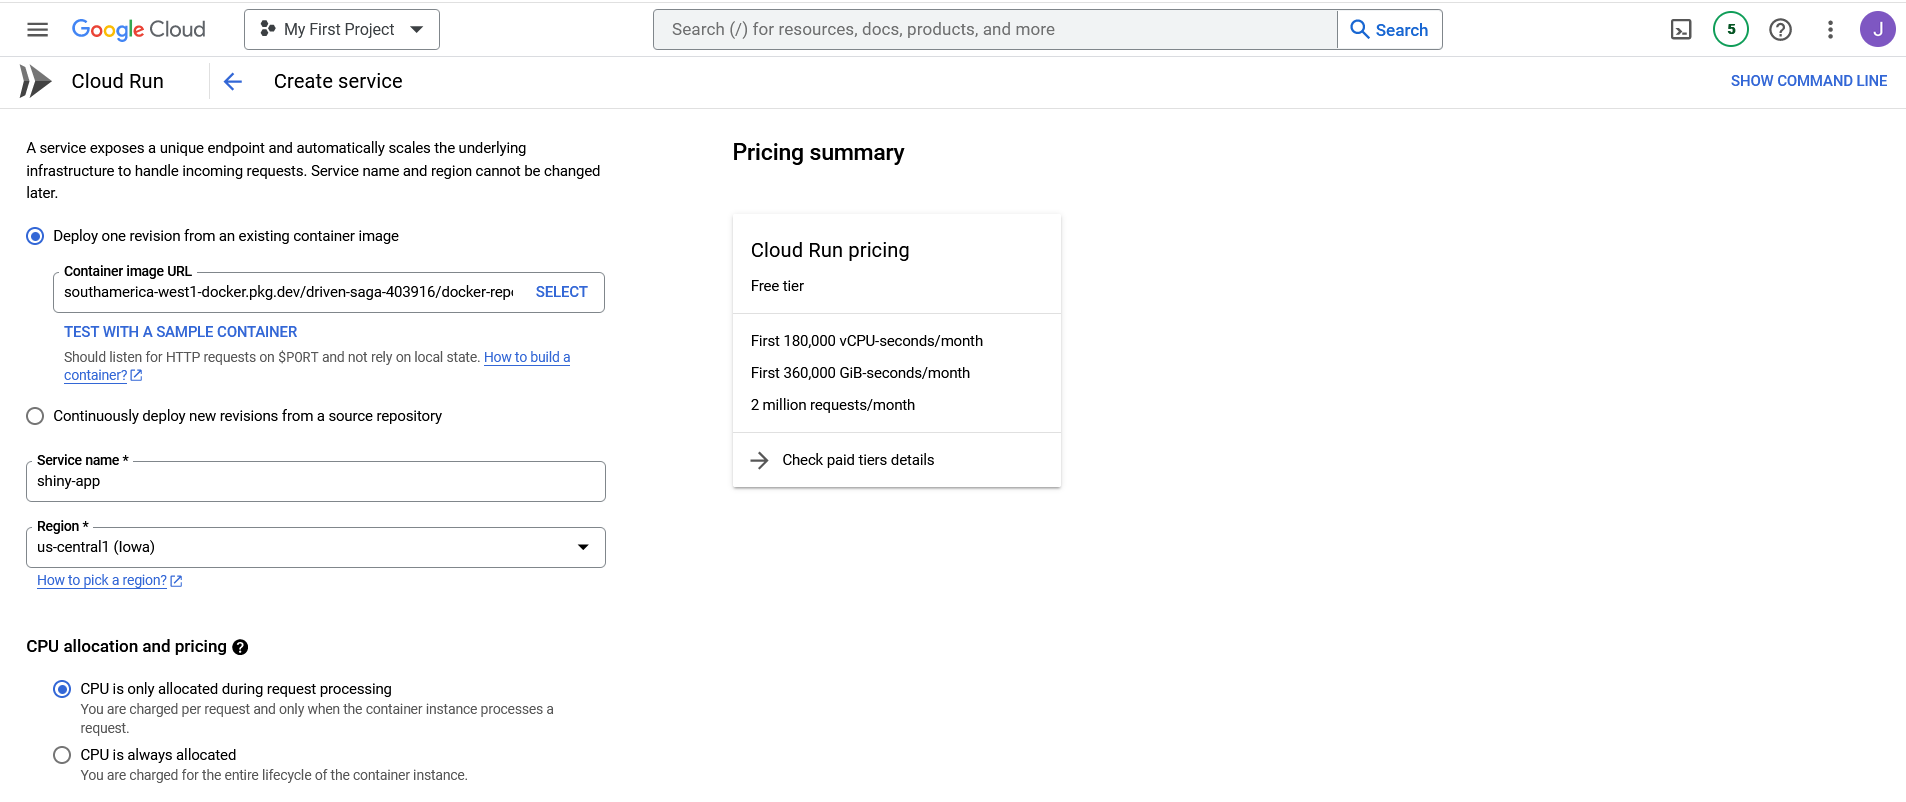
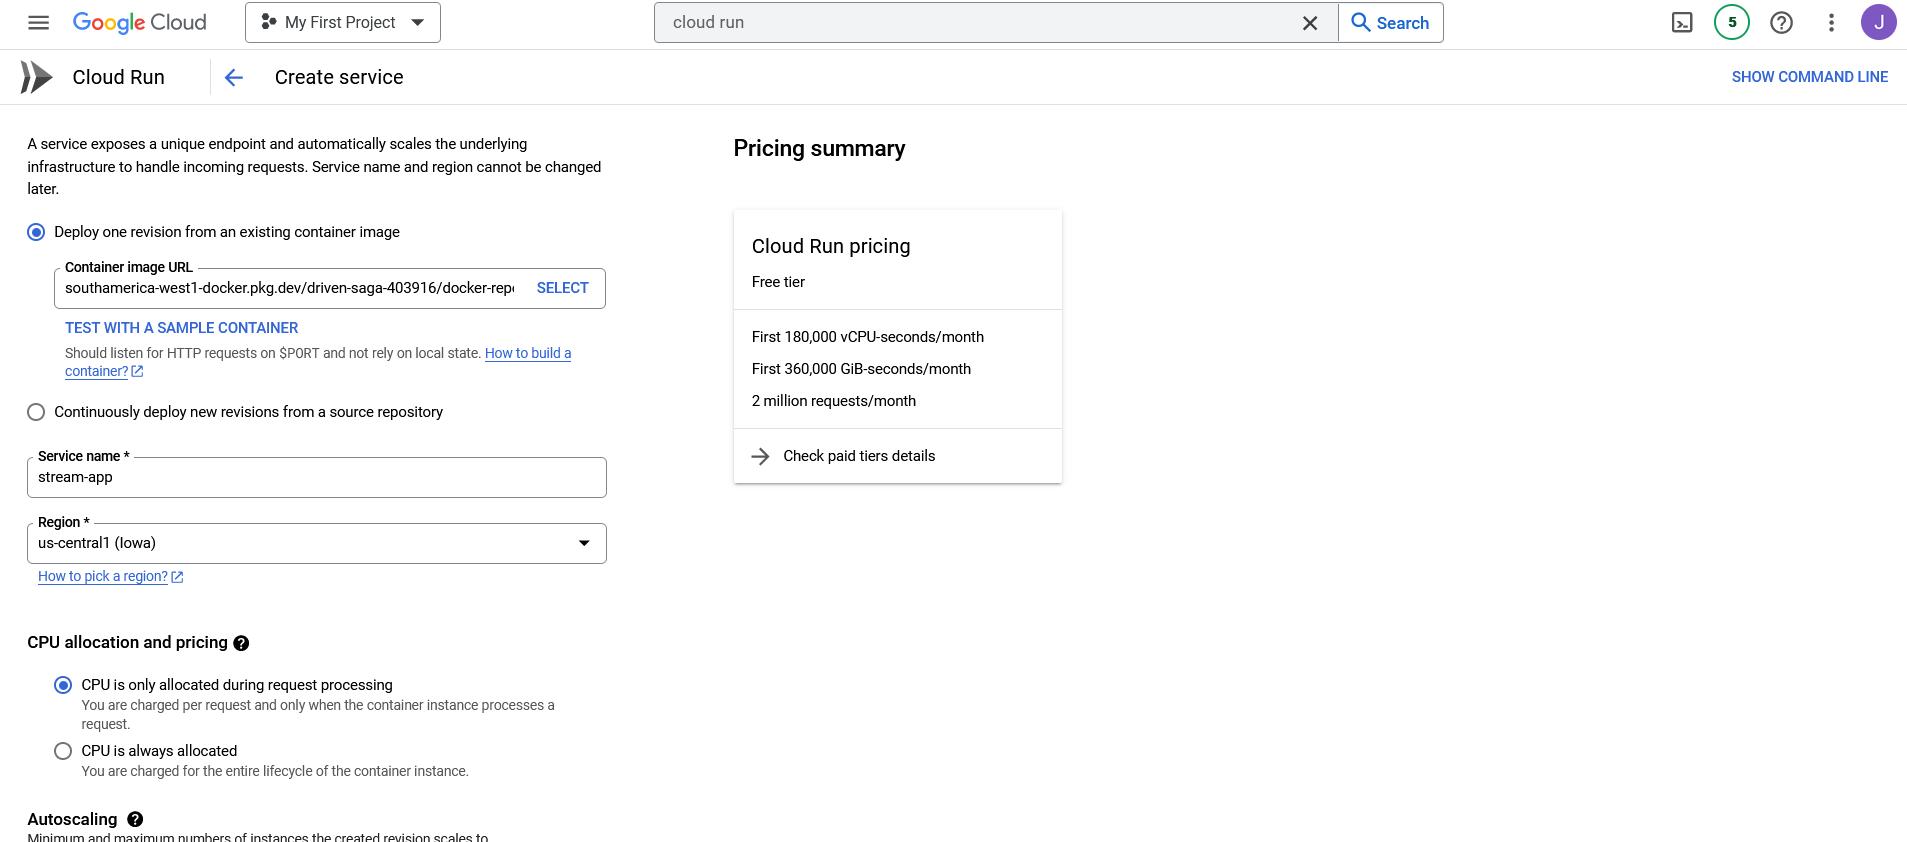
Se corrigen errores en el readme.

diff --git a/README.md b/README.md
@@ -1,9 +1,7 @@
 # Streamlit_app_docker
-Este es un ejemplo básico para ejecutar Streamlit-apps en contenedores
-Docker.Para ejecutar el contenedor que se muestra en este tutorial se
-asume que Docker ya esta instalado.
 
-Sin embargo a continuación te dejo el enlace para la descarga de [Docker](https://www.docker.com/)
+Este es un tutorial para ejecutar Streamlit-apps en el servicio Cloud Run de **Google Cloud Platform(GCP)**.Para desplegar una Streamlit-app se utilizaran imagenes docker,la cual primero se testea de forma local y luego se migra al entorno cloud.En este tutorial se asume que ya tienes instalada Docker,sin embargo a continuación te dejo el enlace para la descarga de [Docker](https://www.docker.com/)
+
 
 ## Estructura
 
@@ -17,9 +15,16 @@ El archivo Dockerfile sera con el que construiremos la imagen para luego despleg
   - 📄 Dockerfile
   - 📄 app_cloud_gcp_py.py
   - 📄 requirements.txt
-  - 🖼 docker_1.png
   - 💹 trip_austin.csv        
   - 📄 .gitignore
+  - 🖼 artifact_registry.png
+  - 🖼 cloud_run_1.png
+  - 🖼 cloud_run_2.png
+  - 🖼 cloud_run_3.png
+  - 🖼 create_repo.png
+  - 🖼 docker_1.png
+  - 🖼 image_app.png
+  - 🖼 image_repo_docker.png
       
 ```
 
@@ -75,7 +80,7 @@ Si todos los pasos anteriores se desarrollaron de forma correcta,el contenedor s
 [127.0.0.1:8080](http://127.0.0.1:8080)
 
 
-![app-shiny](image_app.png)
+![Stream-shiny](image_app.png)
 
 ## Migrar imagen Docker
 
@@ -83,11 +88,11 @@ Para migrar la imagen ya construida,primero debemos habilitar el servicio Artifa
 
 ![artifact_rgistry_gcp](artifact_registry.png)
 
-Luego en este servicio debemos crear un repositorio,el cual puede ser creado desde la consola de GCP o desde el menu **Create Repository**.En este caso utilizare uno que ya tengo creado.
+Luego en este servicio debemos crear un repositorio,el cual puede ser creado desde la consola de GCP o desde el menu **Create Repository**.
 
 ![crear repositorio](create_repo.png)
 
-Cuando creamos el repositorio elegimos el format como Docker,el mode como standar y la region en este caso la fijare en southamerica-west1[Santiago].
+Cuando creamos el repositorio elegimos el format como Docker,el mode como standard y la region en este caso la fijare en **southamerica-west1[Santiago]**.
 
 Una vez creado el repositorio configuramos de forma local nuestro docker para poder hacer push o pull a las imagenes.
 
@@ -101,7 +106,7 @@ Luego tenemos que etiquetar a nuestra stream_app con la ruta del directorio del 
 docker tag stream_app:latest southamerica-west1-docker.pkg.dev/driven-saga-403916/docker-repo/stream_app:latest
 ```
 
-Una vez etiquetada la imagen,le podemos dar a push a la imagen con la siguiente linea
+Una vez etiquetada la imagen,le podemos dar a push a la imagen de nuestra app.
 
 ``` dockerfile
 docker push southamerica-west1-docker.pkg.dev/driven-saga-403916/docker-repo/stream_app:latest
@@ -111,11 +116,11 @@ Si la imagen fue cargada correctamente la podremos ver en el repositorio de Arti
 
 ![imagen en el repo docker](image_repo_docker.png)
 
-Como podemos ver en la imagen,ya tenemos la imagen de nuestra app shiny.De esta forma ahora la podemos desplegar con el servicio Cloud Run.
+Como se ve en la imagen,hay 2 imagenes.La imagen stream_app es la que acabamos de subir,en cambio la que dice shiny_app,es la imagen de una app que subi anteriormente.
 
 ## Desplegar con Cloud Run
 
-Una vez accedemos al servicio Cloud Run,tenemos que crear un servicio en donde se abrira el siguiente menu.
+Una vez accedemos al servicio Cloud Run,tenemos que crear un **servicio**, en donde se abrira el siguiente menu.
 
 ![Configuracion cloud run](cloud_run_1.png)
 
@@ -133,10 +138,10 @@ Si la imagen se despliega de forma correcta,la deberiamos poder ver como se ve e
 
 Finalmente si queremos acceder al servicio,podemos entrar al URL que se nos muestra en la imagen.
 
-Se los dejo a continuación.
+Se las dejo a continuación.
 
-<https://shiny-app-vvrixyvk3q-uc.a.run.app>
+https://stream-app-vvrixyvk3q-uc.a.run.app/
 
-Aca se una vista de la shiny app.
+Aca se una vista de la stream app.
 
 ![Shiny app desplegada](cloud_run_3.png)
